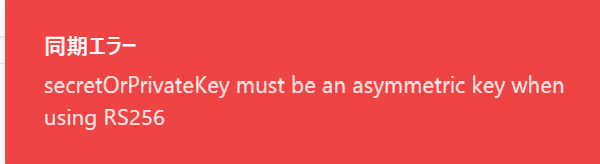
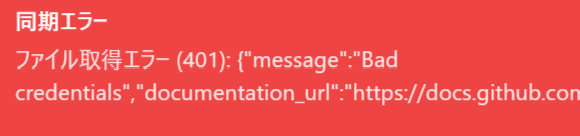
Agent query: GitHubの同期機能（「GitHubに同期」ボタン）をクリックして、正常に動作するか確認してください
Refactor GitHub file update logic to handle private key formatting and newline characters consistently, improving reliability.

Screenshot: https://storage.googleapis.com/screenshot-production-us-central1/c61d3528-edd6-4051-ba35-615d420eb148/bf15191a-94f0-4f5d-8d35-e7a9e49c2a0a.jpg

Changed region(s): [[0.0, 0.0, 1.0, 1.0]]

diff --git a/server/routes.ts b/server/routes.ts
@@ -3,9 +3,7 @@ import { db } from "../db";
 import { users, events, eventHistory, insertEventSchema } from "../db/schema";
 import type { Event } from "../db/schema";
 import { eq, desc } from "drizzle-orm";
-import jwt, { sign } from 'jsonwebtoken';
-import { readFileSync } from 'fs';
-import { join } from 'path';
+import jwt from 'jsonwebtoken';
 
 interface GitHubFileResponse {
   sha: string;
@@ -30,13 +28,12 @@ class GitHubFileUpdater {
   private readonly owner: string;
   private readonly repo: string;
 
-  constructor(appId: string, privateKeyPath: string, owner: string, repo: string) {
+  constructor(appId: string, privateKey: string, owner: string, repo: string) {
     try {
       this.appId = appId;
 
-      // プライベートキーファイルを直接読み込む
-      this.privateKey = readFileSync(join(process.cwd(), privateKeyPath), 'utf8');
-
+      // 環境変数の\nを実際の改行に変換
+      this.privateKey = this.formatPrivateKey(privateKey);
       this.owner = owner;
       this.repo = repo;
 
@@ -47,7 +44,7 @@ class GitHubFileUpdater {
         privateKeyLength: this.privateKey.length,
         privateKeyLines: this.privateKey.split('\n').length,
         privateKeyStart: this.privateKey.startsWith('-----BEGIN RSA PRIVATE KEY-----'),
-        privateKeyEnd: this.privateKey.endsWith('-----END RSA PRIVATE KEY-----\n')
+        privateKeyEnd: this.privateKey.endsWith('-----END RSA PRIVATE KEY-----')
       });
     } catch (error) {
       console.error('GitHubFileUpdater initialization error:', error);
@@ -55,72 +52,104 @@ class GitHubFileUpdater {
     }
   }
 
+  private formatPrivateKey(key: string): string {
+    // 環境変数の\nを実際の改行に変換し、余分な空白を削除
+    const formattedKey = key
+      .replace(/\\n/g, '\n')  // \n文字列を実際の改行に変換
+      .split('\n')
+      .map(line => line.trim()) // 各行の余分な空白を削除
+      .filter(line => line.length > 0) // 空行を削除
+      .join('\n');
+
+    console.log('Private key formatting:', {
+      originalLength: key.length,
+      formattedLength: formattedKey.length,
+      lines: formattedKey.split('\n').length,
+      startsWithHeader: formattedKey.startsWith('-----BEGIN RSA PRIVATE KEY-----'),
+      endsWithFooter: formattedKey.endsWith('-----END RSA PRIVATE KEY-----')
+    });
+
+    return formattedKey;
+  }
+
   private generateJWT(): string {
     try {
-      const now = Math.floor(Date.now() / 1000);
+      const now = Math.floor(Date.now() / 1000) - 30;
       const payload = {
-        iat: now - 30,
+        iat: now,
         exp: now + (10 * 60),
         iss: this.appId
       };
 
       console.log('Generating JWT with payload:', {
         ...payload,
-        privateKeyLines: this.privateKey.split('\n').length
+        privateKeyInfo: {
+          length: this.privateKey.length,
+          lines: this.privateKey.split('\n').length,
+          startsWithHeader: this.privateKey.startsWith('-----BEGIN RSA PRIVATE KEY-----'),
+          endsWithFooter: this.privateKey.endsWith('-----END RSA PRIVATE KEY-----')
+        }
       });
 
-      return jwt.sign(payload, this.privateKey, { algorithm: 'RS256' });
+      const token = jwt.sign(payload, this.privateKey, { algorithm: 'RS256' });
+      console.log('JWT token generated successfully:', {
+        tokenLength: token.length,
+        tokenStart: token.substring(0, 20) + '...'
+      });
+
+      return token;
     } catch (error) {
       console.error('JWT Generation Error:', error);
       throw new Error(`JWT生成エラー: ${error instanceof Error ? error.message : String(error)}`);
     }
   }
 
-  private async getHeaders(): Promise<Headers> {
-    try {
-      const token = this.generateJWT();
-      console.log('JWT token generated successfully');
+  private getHeaders(): Headers {
+    const headers = new Headers({
+      'Accept': 'application/vnd.github+json',
+      'Authorization': `Bearer ${this.generateJWT()}`,
+      'X-GitHub-Api-Version': '2022-11-28'
+    });
 
-      return new Headers({
-        'Accept': 'application/vnd.github+json',
-        'Authorization': `Bearer ${token}`,
-        'X-GitHub-Api-Version': '2022-11-28'
-      });
-    } catch (error) {
-      console.error('Headers Generation Error:', error);
-      throw error;
-    }
+    console.log('Request headers prepared:', {
+      accept: headers.get('Accept'),
+      authLength: headers.get('Authorization')?.length,
+      version: headers.get('X-GitHub-Api-Version')
+    });
+
+    return headers;
   }
 
-  public async updateFile(path: string, content: string, message: string): Promise<GitHubUpdateResponse> {
-    const url = `https://api.github.com/repos/${this.owner}/${this.repo}/contents/${path}`;
+  public async updateAllEventsFile(newContent: string): Promise<GitHubUpdateResponse> {
+    const filePath = 'all-events.md';
+    const url = `https://api.github.com/repos/${this.owner}/${this.repo}/contents/${filePath}`;
 
     try {
-      const headers = await this.getHeaders();
-      console.log('Fetching existing file:', path);
+      // 1. Get current file to obtain SHA
+      const fileResponse = await fetch(url, {
+        headers: this.getHeaders()
+      });
 
-      // 既存ファイルの取得
-      const fileResponse = await fetch(url, { headers });
       if (!fileResponse.ok) {
         const errorText = await fileResponse.text();
         console.error('File fetch failed:', {
           status: fileResponse.status,
           statusText: fileResponse.statusText,
-          errorText
+          errorText,
+          responseHeaders: Object.fromEntries(fileResponse.headers.entries())
         });
         throw new Error(`ファイル取得エラー (${fileResponse.status}): ${errorText}`);
       }
 
       const fileData = await fileResponse.json() as GitHubFileResponse;
 
-      // ファイルの更新
-      console.log('Updating file contents...');
+      // 2. Update file
       const updateResponse = await fetch(url, {
         method: 'PUT',
-        headers,
+        headers: this.getHeaders(),
         body: JSON.stringify({
-          message,
-          content: Buffer.from(content).toString('base64'),
+          message: 'Update all-events.md',
+          content: Buffer.from(newContent).toString('base64'),
           sha: fileData.sha
         })
       });
@@ -130,19 +159,14 @@ class GitHubFileUpdater {
         console.error('File update failed:', {
           status: updateResponse.status,
           statusText: updateResponse.statusText,
-          errorText
+          errorText,
+          responseHeaders: Object.fromEntries(updateResponse.headers.entries())
         });
         throw new Error(`ファイル更新エラー (${updateResponse.status}): ${errorText}`);
       }
 
-      const result = await updateResponse.json() as GitHubUpdateResponse;
-      console.log('File update successful:', {
-        path,
-        commitSha: result.commit.sha,
-        url: result.content.html_url
-      });
+      return await updateResponse.json() as GitHubUpdateResponse;
 
-      return result;
     } catch (error) {
       console.error('GitHub API Error:', error);
       throw error;
@@ -205,18 +229,20 @@ export function setupRoutes(app: Express) {
 
     try {
       const githubAppId = process.env.GITHUB_APP_ID;
-      if (!githubAppId) {
-        console.error("Missing GitHub App ID");
+      const githubPrivateKey = process.env.GITHUB_PRIVATE_KEY;
+
+      if (!githubAppId || !githubPrivateKey) {
+        console.error("Missing GitHub credentials");
         return res.status(500).json({
-          error: "GitHub App IDが設定されていません",
-          details: "環境変数GITHUB_APP_IDを設定してください"
+          error: "GitHub認証情報が不足しています",
+          details: "環境変数GITHUB_APP_IDとGITHUB_PRIVATE_KEYを設定してください"
         });
       }
 
       console.log('Creating GitHubFileUpdater instance...');
       const github = new GitHubFileUpdater(
         githubAppId,
-        'scrumfestmap.2024-12-23.private-key.pem',  // プライベートキーファイルのパス
+        githubPrivateKey,
         'kawaguti',
         'ScrumFestMapViewer'
       );
@@ -232,11 +258,7 @@ export function setupRoutes(app: Express) {
       const markdownContent = generateMarkdown(allEvents);
 
       console.log('Updating GitHub file...');
-      const result = await github.updateFile(
-        'all-events.md',
-        markdownContent,
-        'Update events list via ScrumFestMap'
-      );
+      const result = await github.updateAllEventsFile(markdownContent);
 
       console.log('Sync completed successfully:', {
         commitSha: result.commit.sha,
